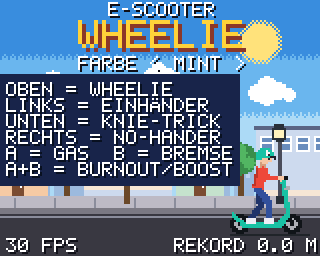
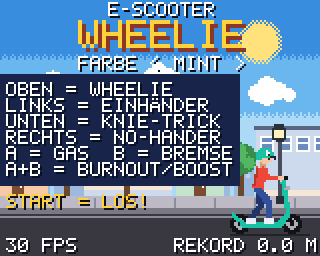
Hide half-built scene while loading, reproducible README images
- props, HUD and rider no longer flash at the screen corner during
  start-up
- the simulator seeds the random generator so docs/ images are
  identical on every run

Claude-Session: https://claude.ai/code/session_01Sb8gd8W87U39AmKLaUWn2H

Changed region(s): [[0.0, 0.75, 0.2188, 0.8438], [0.3125, 0.75, 0.4688, 0.8438], [0.25, 0.75, 0.2812, 0.8125]]

diff --git a/code.py b/code.py
@@ -135,6 +135,7 @@ class Game:
         self.props = (lamp, L.grid("tree", 1, True, 0, 72),
                       displayio.TileGrid(lamp.bitmap, pixel_shader=lamp.pixel_shader, y=62))
         for tg in self.props:
+            tg.hidden = True
             world.append(tg)
         self.mark_bmp = displayio.Bitmap(40, 2, 2)                     # Reifenspur
         self.mark = displayio.TileGrid(self.mark_bmp, y=116,
@@ -144,6 +145,8 @@ class Game:
         world.append(self.shadow)
         self.rider = rd = gfx.Rider(L)                                 # Scooter und Fahrer
         self.nf = gfx.NF - 1
+        rd.g.x = REAR_X + 72
+        rd.g.y = AXLE_Y
         world.append(rd.g)
         self.puffs = gfx.Puffs(world, *L.get("puff"))
         L.close()
@@ -155,6 +158,7 @@ class Game:
             self.lines.append(tg)
 
         hud = displayio.Group()
+        hud.hidden = True               # erst zeigen, wenn alles fertig ist
         root.append(hud)
         L = gfx.Label
         self.l_rec = L(font, hud, 16, 0xFFFFFF)
@@ -201,6 +205,7 @@ class Game:
         self.l_mrec = L(font, m, 16, 0xFFFFFF, 1, 0x101018, ROAD)
 
         root.remove(load.g)
+        hud.hidden = False
         gc.collect()
         self.t = 0.0
         self.sx = 0.0           # Straße: wie weit der Mittelstreifen verschoben ist

diff --git a/tools/simulator.py b/tools/simulator.py
@@ -13,6 +13,7 @@ Erzeugt Screenshots (PNG) und eine Animation (GIF) im Ausgabe-Ordner.
 import importlib.util
 import math
 import os
+import random
 import struct
 import sys
 import types
@@ -237,6 +238,7 @@ def check(cond, text):
 def main():
     out = sys.argv[1] if len(sys.argv) > 1 else os.path.join(HERE, "..", "sim-output")
     os.makedirs(out, exist_ok=True)
+    random.seed(1)                    # immer der gleiche "Zufall": gleiche Bilder bei jedem Lauf
     r = Runner(out)
     g = r.game
     m = r.mod
@@ -254,6 +256,8 @@ def main():
     r.load("Start")
     r.run(2.0)
     r.load("Menü")
+    while g.l_start.g.hidden:         # "START = LOS!" blinkt: fürs Bild warten, bis es da ist
+        r.run(1 / 30)
     r.shot("01_menue.png")
     check(g.state == m.MENU and not g.menu.hidden, "Menü beim Start")
     r.tap(A)
@@ -435,6 +439,7 @@ def make_docs(out, docs):
                      ("11_sturz.png", "sturz.png"), ("10_ergebnis.png", "rekord.png")):
         Image.open(os.path.join(out, src)).resize((320, 256), Image.NEAREST).save(
             os.path.join(docs, dst), optimize=True)
+    random.seed(2)
     r = Runner(docs)                  # eine kurze Runde für die Animation
     r.run(1.0)
     r.tap(RIGHT)

diff --git a/README.md b/README.md
@@ -95,7 +95,7 @@ beim Start erst übersetzen. Deshalb:
   `grafik.py`. Kommentare kosten beim Übersetzen keinen Speicher; `grafik.py`
   liest beim Start einfach seine eigenen letzten Zeilen (lauflängen-codiert)
   und füllt damit die Bitmaps. Das spart den ganzen Zeichen-Code auf dem Gerät
-  und das Spiel startet in ein bis zwei Sekunden.
+  und das Spiel startet in wenigen Sekunden.
 * **Der Hintergrund steht still**, nur kleine Bildchen bewegen sich. Pro Bild
   müssen so nur etwa 2000 von 20480 Pixeln neu gemalt werden.
 * **Während der Fahrt wird kein Speicher angefordert** (feste Listen, Texte
